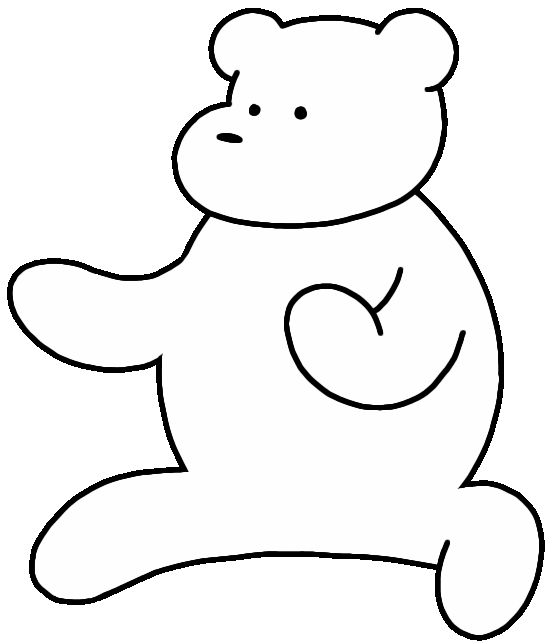
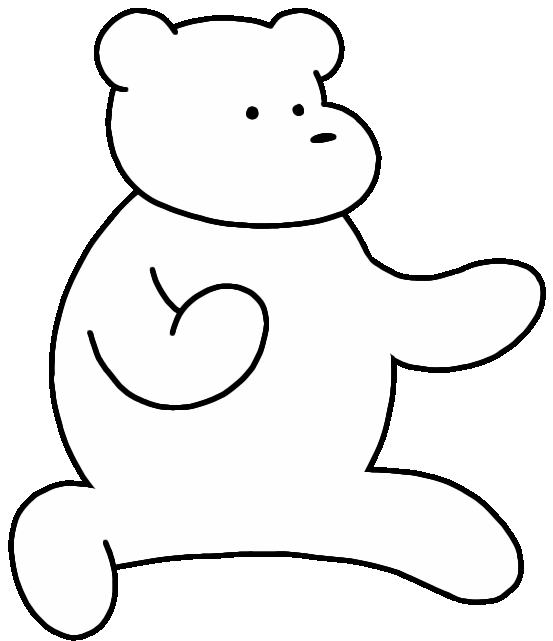
fix(pose-fighter): boss sprite faces player again (flipped asset), soft body collision keeps sprites from clipping, edge clamps by real sprite width

diff --git a/teachable machine/stretch.js b/teachable machine/stretch.js
@@ -19,7 +19,7 @@ const BOSS_CFG = {
   shotDmg: 100, shotCd: 3000,
   bombDmg: 150, bombCd: 5000, bombFuse: 1000, bombR: 46,
   shieldCdMin: 8000, shieldCdMax: 12000, shieldDur: 2000,
-  moveSpeed: 95, keepMin: 120, keepMax: 200
+  moveSpeed: 95, keepMin: 170, keepMax: 200
 };
 const HEAL_PER_SEC = 5;
 const SHIELD_FACTOR = 0.25;
@@ -272,6 +272,13 @@ function movementAllowsKeys() {
   return true;
 }
 
+function spriteHalfW(e, img) {
+  if (img && img.width && img.height) {
+    return (e.drawH || e.h) * (img.width / img.height) / 2;
+  }
+  return e.w / 2;
+}
+
 function updatePlayer(dt, now) {
   const canMove = movementAllowsKeys();
   player.crouch = canMove && !!keys["ArrowDown"] && player.onGround;
@@ -282,6 +289,22 @@ function updatePlayer(dt, now) {
     if (keys["ArrowLeft"]) { vx = -230; player.facing = -1; }
   }
   player.x = Math.max(40, Math.min(WORLD.w - 40, player.x + vx * dt));
+
+  // không cho sprite đi xuyên boss (va chạm mềm theo bề rộng sprite thật)
+  if (boss.hp > 0) {
+    const minSep = spriteHalfW(player, images.player) + spriteHalfW(boss, images.boss);
+    const dx = player.x - boss.x;
+    if (Math.abs(dx) < minSep) {
+      player.x = dx >= 0 ? boss.x + minSep : boss.x - minSep;
+      player.x = Math.max(40, Math.min(WORLD.w - 40, player.x));
+    }
+  }
+
+  // giữ sprite trong khung hình theo bề rộng thật
+  {
+    const hw = spriteHalfW(player, images.player);
+    player.x = Math.max(hw, Math.min(WORLD.w - hw, player.x));
+  }
 
   if (canMove && keys["ArrowUp"] && player.onGround) {
     player.vy = -750;
@@ -321,7 +344,7 @@ function updateBoss(dt, now) {
   } else if (dist < BOSS_CFG.keepMin) {
     boss.x -= Math.sign(player.x - boss.x) * BOSS_CFG.moveSpeed * 0.6 * dt;
   }
-  boss.x = Math.max(60, Math.min(WORLD.w - 60, boss.x));
+  boss.x = Math.max(spriteHalfW(boss, images.boss), Math.min(WORLD.w - spriteHalfW(boss, images.boss), boss.x));
 
   if (now >= boss.nextShotAt) {
     boss.nextShotAt = now + BOSS_CFG.shotCd;
